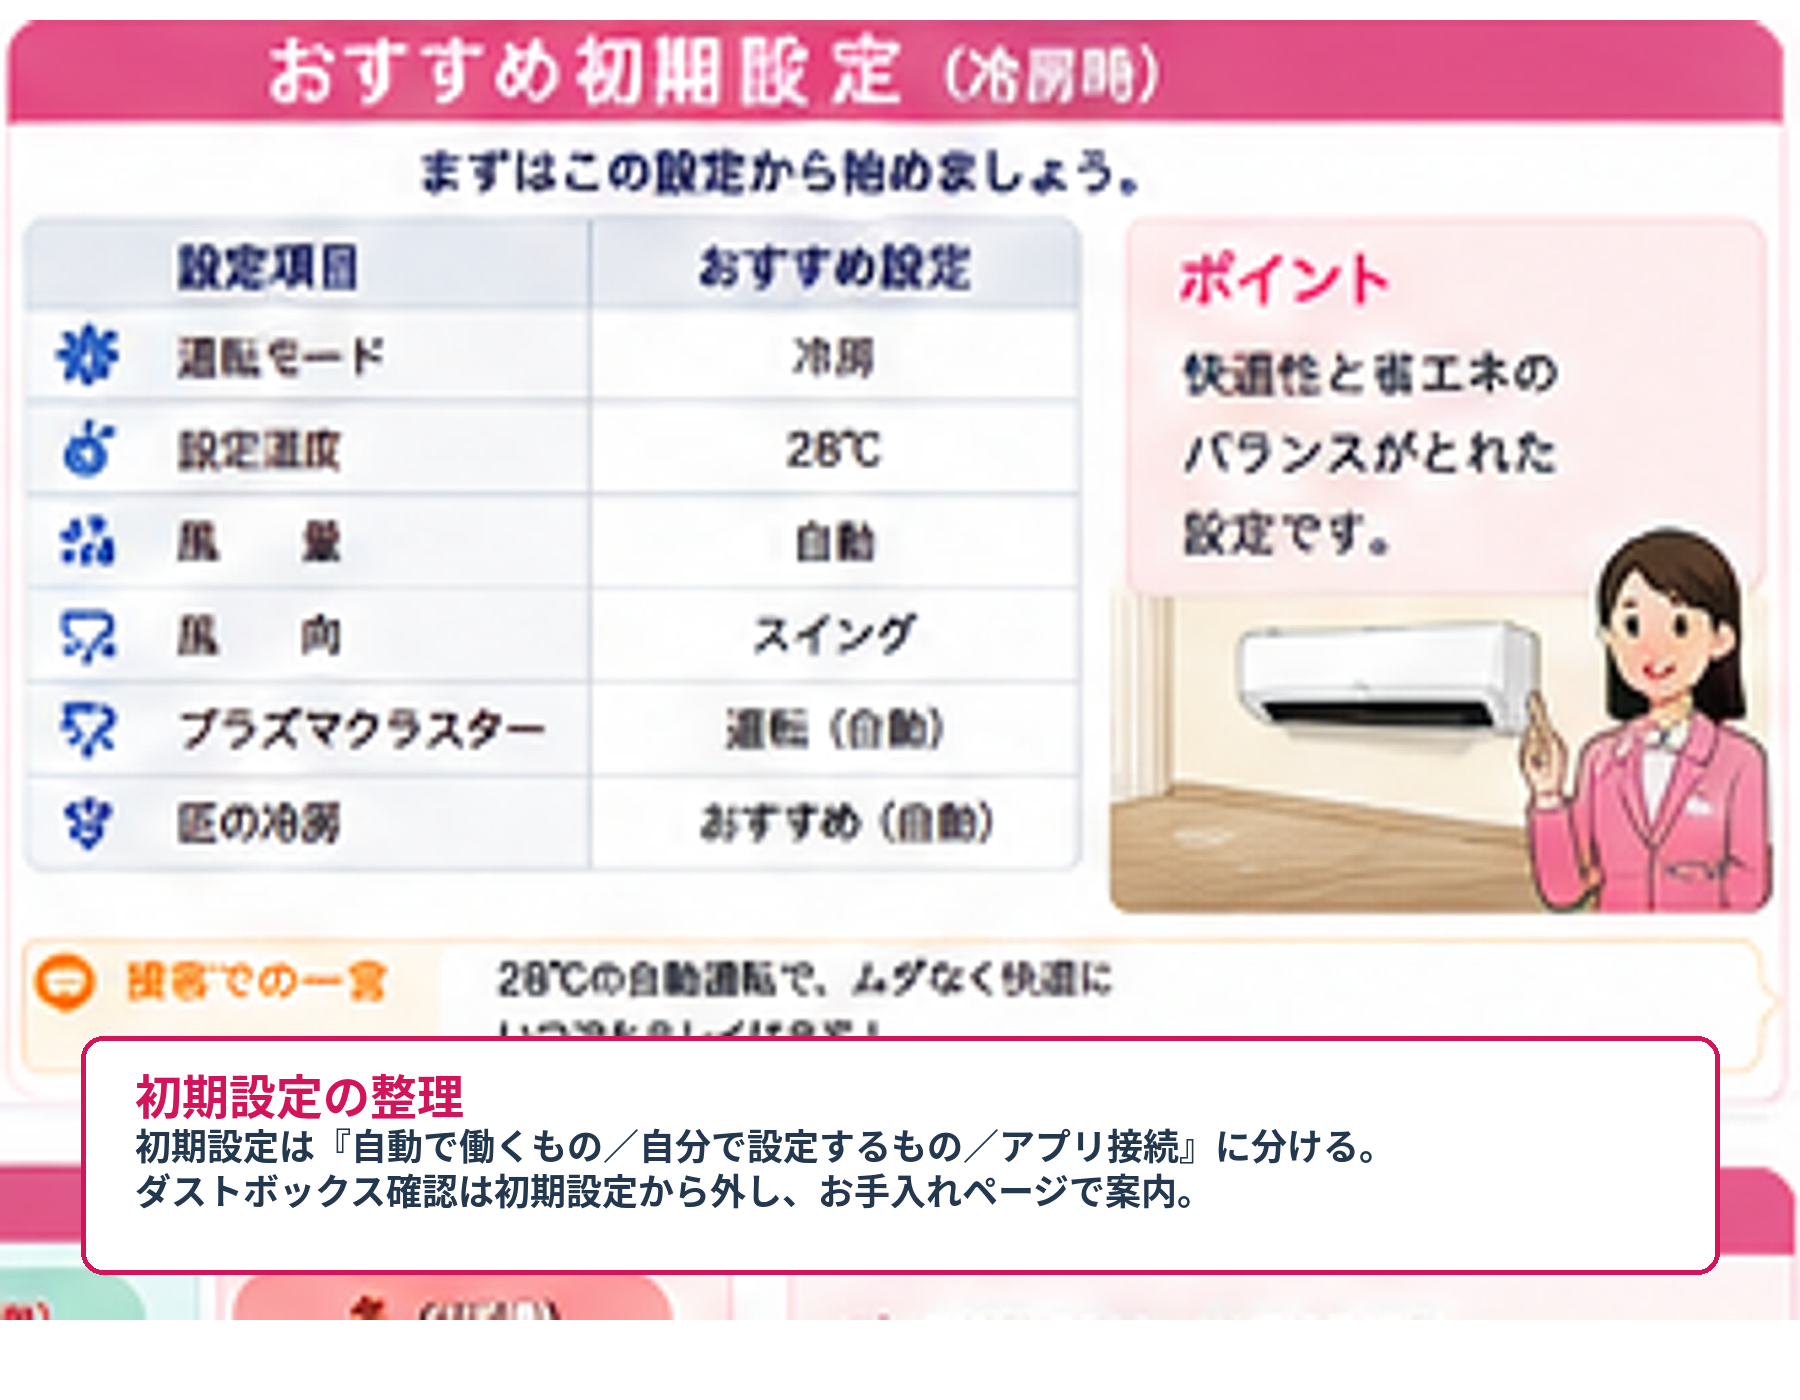
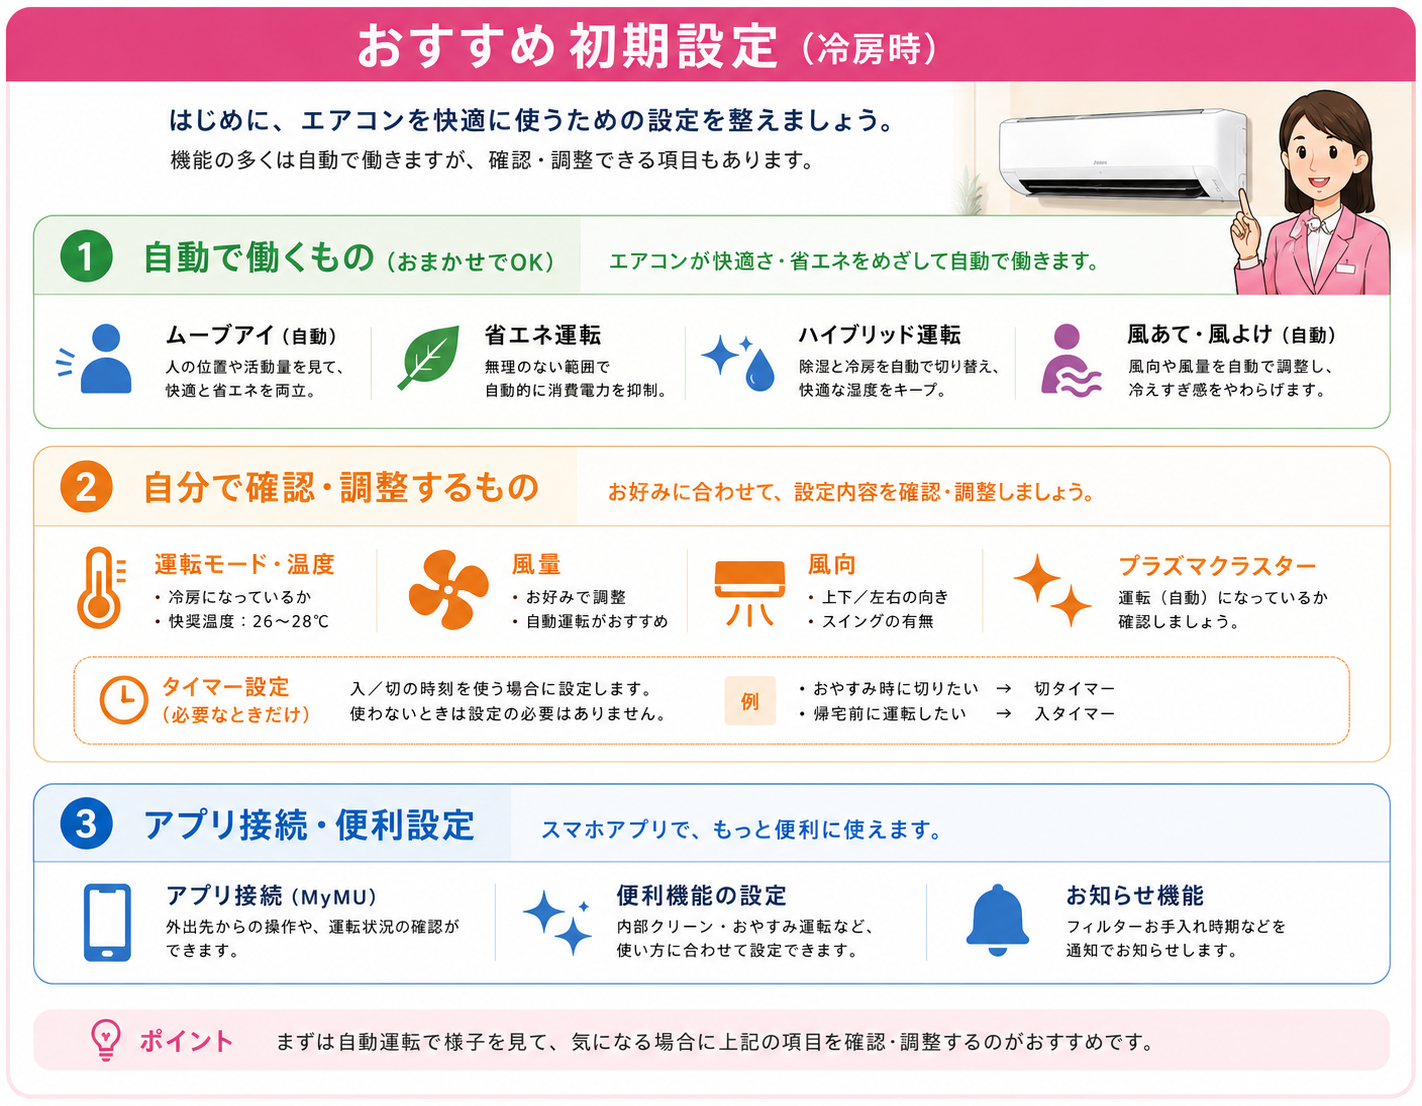
Add files via upload

diff --git a/index.html b/index.html
@@ -4,7 +4,7 @@
 <meta charset="utf-8">
 <meta name="viewport" content="width=device-width,initial-scale=1,viewport-fit=cover">
 <meta name="theme-color" content="#ffffff">
-<title>エアコン販買マスター Pro Ver.6.9.8 三菱指摘再修正版</title>
+<title>エアコン販買マスター Pro Ver.6.9.9 SHARP図解本体修正版</title>
 <link rel="apple-touch-icon" sizes="180x180" href="apple-touch-icon.png?v=3890">
 <link rel="icon" type="image/png" sizes="32x32" href="favicon-32.png?v=3890">
 <style>
@@ -1294,7 +1294,7 @@ html,body{max-width:100%;overflow-x:hidden}
 
 
 <style id="v630-sharp-lux-final">
-/* Ver.6.9.8 三菱指摘再修正版：iPad/iPhone見切れ対策 */
+/* Ver.6.9.9 SHARP図解本体修正版：iPad/iPhone見切れ対策 */
 #visualGrid .visual-card[data-cat="sharp"]{
   overflow:hidden!important;
   padding:10px!important;
@@ -1434,7 +1434,7 @@ html,body{max-width:100%;overflow-x:hidden}
 #general .maker-status-list span,#mitsubishi .maker-status-list span{min-width:42px;text-align:center}
 @media(max-width:700px){#general .hitachi-flow-row,#mitsubishi .hitachi-flow-row{grid-template-columns:1fr!important}#general .hitachi-flow-row i,#mitsubishi .hitachi-flow-row i{transform:rotate(90deg)}}
 
-/* ===== Ver6.9.8 Tamachan Feedback Fully Applied ===== */
+/* ===== Ver6.9.9 Tamachan Feedback Fully Applied ===== */
 .visual-grid{grid-template-columns:repeat(2,minmax(0,1fr));gap:18px}
 .visual-card{position:relative;border:1px solid #cfe0ef;border-radius:24px;background:linear-gradient(180deg,#fff 0%,#f8fbff 100%);overflow:hidden;box-shadow:0 14px 34px rgba(20,61,102,.10)}
 .visual-card::before{content:"";display:block;height:7px;background:linear-gradient(90deg,#0d6ee8,#61a9ff)}
@@ -1484,7 +1484,7 @@ html,body{max-width:100%;overflow-x:hidden}
     <div class="brand">
       <span class="brand-snow">❄</span>
       <span>エアコン販買マスター</span>
-      <small>Ver.6.9.8 三菱指摘再修正版</small>
+      <small>Ver.6.9.9 SHARP図解本体修正版</small>
     </div>
     <button class="icon-button status-button" onclick="openMission()" aria-label="今日の目標">◎</button>
   </header>
@@ -3375,13 +3375,13 @@ const VISUAL_LIBRARY=[
  {category:"toshiba",file:"toshiba-settings-v692.webp",title:"東芝 初期設定",desc:"手動選択・自動・IoLIFE接続設定を整理。"},
  {category:"sharp",file:"sharp-lux-plasma-v694.png?v=697",title:"プラズマクラスター空気清浄",desc:"送風単独運転も可能。プラズマクラスター25000／7000はシリーズごとに確認。"},
  {category:"sharp",file:"sharp-lux-filter-v694.png?v=697",title:"フィルター自動お掃除",desc:"ブラシ清掃からダスト回収までを図解。搭載シリーズは型番で確認。"},
- {category:"sharp",file:"sharp-lux-cocoro-v694.png?v=697",title:"COCORO HOME・ペットモード",desc:"冷房時のみ。ワンちゃん冷房／ネコちゃん冷房の制御差と注意点を明記。"},
- {category:"sharp",file:"sharp-lux-airflow-v694.png?v=697",title:"気流制御",desc:"コアンダロング気流・すこやかシャワー気流を除湿と分けて図解。"},
- {category:"sharp",file:"sharp-lux-dehumid-v694.png?v=697",title:"除湿2方式",desc:"R＝氷結ドライ、V・E＝氷結ドライ＋コアンダ除湿、DG＝コアンダ除湿。再熱除湿ではない。"},
+ {category:"sharp",file:"sharp-lux-cocoro-v694.png?v=699",title:"COCORO HOME・ペットモード",desc:"ペットモードを図解本体で説明。冷房時のみ・ワンちゃん／ネコちゃんの制御差も整理。"},
+ {category:"sharp",file:"sharp-lux-airflow-v694.png?v=699",title:"気流制御",desc:"コアンダロング気流／すこやかシャワー気流を、用途と風の届き方で図解。"},
+ {category:"sharp",file:"sharp-lux-dehumid-v694.png?v=699",title:"除湿2方式",desc:"氷結ドライ／コアンダ除湿を図解本体で比較し、搭載シリーズと再熱除湿ではない点を明記。"},
  {category:"sharp",file:"sharp-lux-sleep-v694.png?v=697",title:"匠の冷房・睡眠向け機能",desc:"匠の冷房は温度・湿度・気流、おやすみAIは気象情報と起床時フィードバックを活用。"},
- {category:"sharp",file:"sharp-lux-clean-v694.png?v=697",title:"清潔3機能",desc:"防カビカラッとファンはR、内部清浄／カビパトロールはR・V・E・DG。DGの効果説明も区別。"},
- {category:"sharp",file:"sharp-lux-eco-v694.png?v=697",title:"省エネ・節電の具体機能",desc:"エコ自動・おでかけ・つないでもっと節電を『何を見てどう制御するか』で具体化。"},
- {category:"sharp",file:"sharp-settings-illustrated.png?v=697",title:"SHARP 初期設定",desc:"自動／要設定／アプリ接続を分離。ダストボックス確認はお手入れへ移動。"},
+ {category:"sharp",file:"sharp-lux-clean-v694.png?v=699",title:"清潔3機能",desc:"防カビカラッとファン／内部洗浄／カビパトロールを図解本体で分離し、搭載グレードも一覧化。"},
+ {category:"sharp",file:"sharp-lux-eco-v694.png?v=699",title:"省エネ・節電の具体機能",desc:"エコ自動・おでかけ・つないでもっと節電を、図解本体の中で役割別に説明。"},
+ {category:"sharp",file:"sharp-settings-illustrated.png?v=699",title:"SHARP 初期設定",desc:"自動で働くもの／自分で確認・調整するもの／アプリ接続を図解本体で3分類。"},
  {category:"mitsubishi",file:"mitsubishi-moveeye-v692.webp?v=697",title:"三菱のセンサー",desc:"mirA.I.+／ムーブアイ極／ムーブアイ／フロアアイの違いと搭載シリーズを整理。"},
  {category:"mitsubishi",file:"mitsubishi-hybrid-v692.webp?v=697",title:"ハイブリッド運転",desc:"冷房⇄爽風（送風）を自動切替。シリーズごとの設定方法の違いも明記。"},
  {category:"mitsubishi",file:"mitsubishi-two-point-v692.webp?v=697",title:"2か所同時空調",desc:"1台で2部屋ではなく、1つの部屋の左右2エリアへ左右フラップで吹き分け。"},
